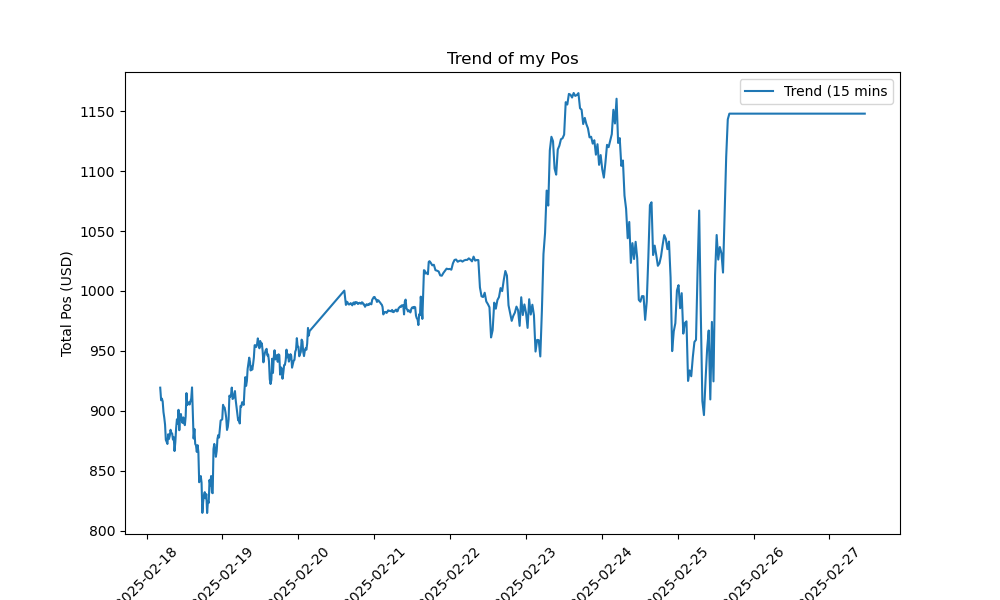
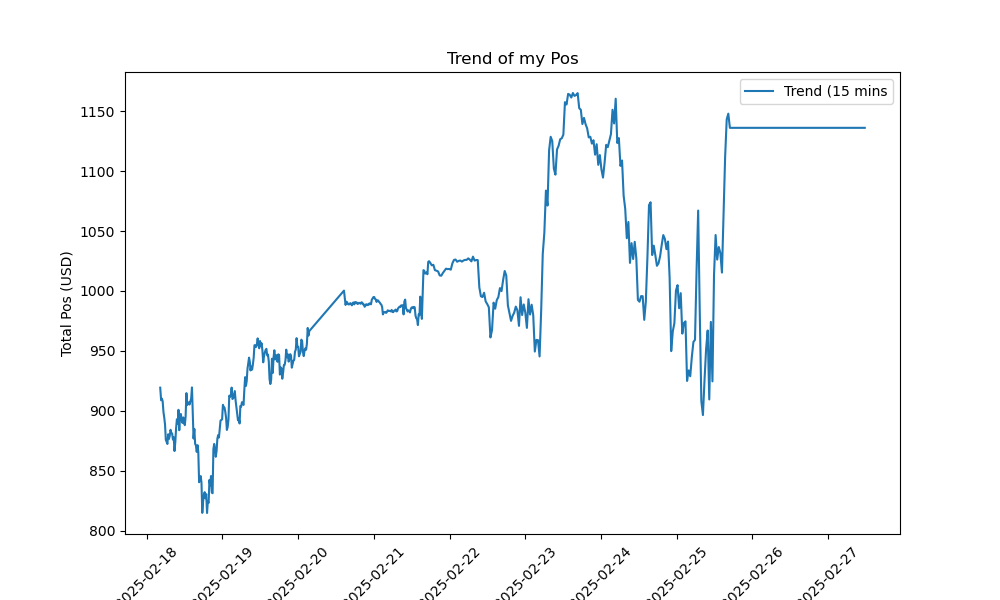
update at 2025-02-25 17:23:21

diff --git a/README.md b/README.md
@@ -4,32 +4,32 @@
 - **产品ID**: TRX-USDT-SWAP
   - **持仓数量**: 6.77
   - **开仓平均价**: 0.2287532613456936
-  - **强平价格**: 0.0654125551816563
-  - **最新价格**: 0.22721
+  - **强平价格**: 0.0676372825310042
+  - **最新价格**: 0.22684
 
 - **产品ID**: TRUMP-USDT-SWAP
   - **持仓数量**: 342
   - **开仓平均价**: 17.7360874105116134
   - **强平价格**: 
-  - **最新价格**: 13.402
+  - **最新价格**: 13.335
 
 - **产品ID**: XRP-USDT-SWAP
   - **持仓数量**: -6.85
   - **开仓平均价**: 2.1894557664233578
-  - **强平价格**: 3.807255074819687
-  - **最新价格**: 2.2288
+  - **强平价格**: 3.767593084922688
+  - **最新价格**: 2.2164
 
 - **产品ID**: ETH-USDT-SWAP
-  - **持仓数量**: 18.35
+  - **持仓数量**: 18.23
   - **开仓平均价**: 2630.6129944958235444
-  - **强平价格**: 1830.1598686403552
-  - **最新价格**: 2425.6
+  - **强平价格**: 1828.1051124303772
+  - **最新价格**: 2417.38
 
 - **产品ID**: BTC-USDT-SWAP
-  - **持仓数量**: -6.45
-  - **开仓平均价**: 88633.0184879522002142
-  - **强平价格**: 104117.48864929902
-  - **最新价格**: 87298.1
+  - **持仓数量**: -6.55
+  - **开仓平均价**: 88617.1388163804108982
+  - **强平价格**: 103670.35537750727
+  - **最新价格**: 87429.5
 
 
 
@@ -75,7 +75,7 @@
   - **sell**: 6.66
   - **price_bit**: 1
   - **amount_base**: 0.02
-  - **change_base**: 88639.12464911086
+  - **change_base**: 88617.13881638041
   - **change_gap**: 1288.88
   - **change_amount**: 0.01
 
